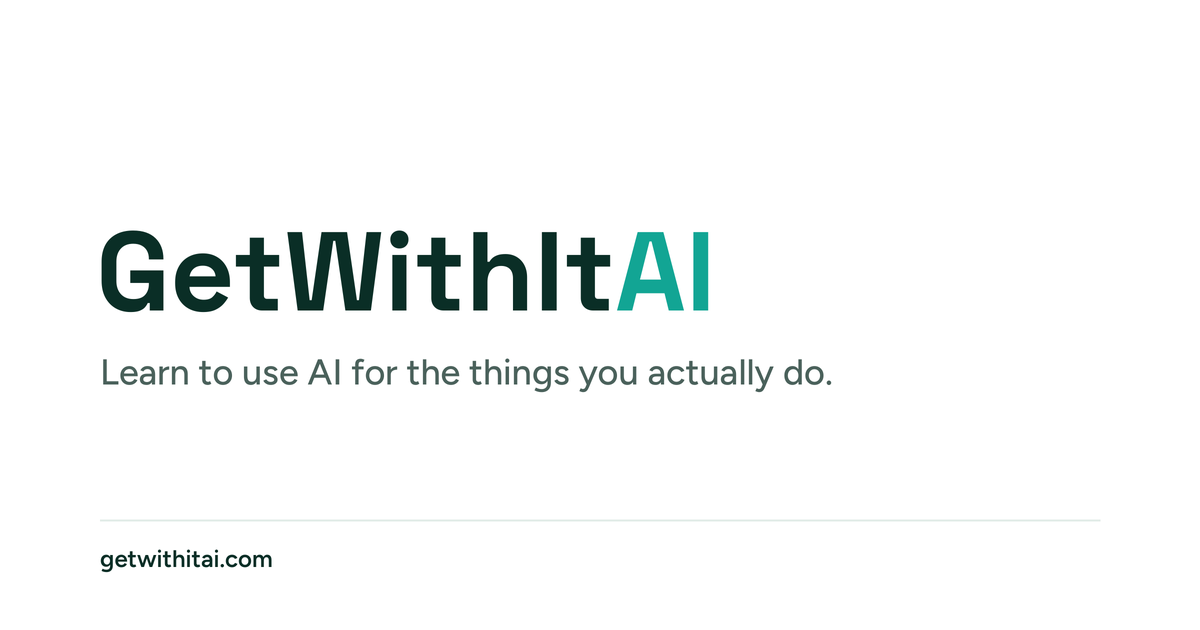
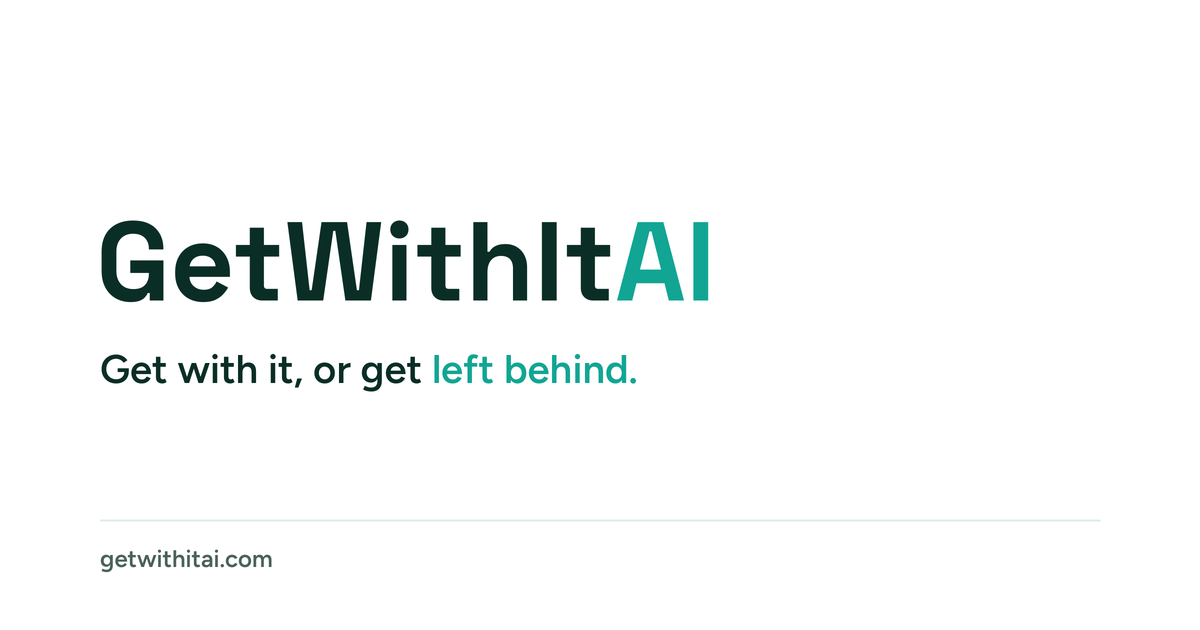
Take out the stats; add the motto 'Get with it, or get left behind.'
The 'What it's worth' stats section is replaced by a motto band on the
home page, and the share image carries the motto.

diff --git a/index.html b/index.html
@@ -7,10 +7,10 @@
   <meta name="description" content="Live, hands-on AI training for beginners and daily users. AI Hero Academy: 18 modules in one day, then an 18-day guided challenge on your own work. Start with a free 28-minute course." />
   <meta name="theme-color" content="#FFFFFF" />
   <link rel="canonical" href="https://getwithitai.com/" />
-  <link rel="icon" href="favicon.ico?v=20261120e" sizes="any" />
-  <link rel="icon" href="assets/logo.svg?v=20261120e" type="image/svg+xml" />
-  <link rel="apple-touch-icon" href="assets/apple-touch-icon.png?v=20261120e" />
-  <link rel="manifest" href="site.webmanifest?v=20261120e" />
+  <link rel="icon" href="favicon.ico?v=20261120f" sizes="any" />
+  <link rel="icon" href="assets/logo.svg?v=20261120f" type="image/svg+xml" />
+  <link rel="apple-touch-icon" href="assets/apple-touch-icon.png?v=20261120f" />
+  <link rel="manifest" href="site.webmanifest?v=20261120f" />
   <meta property="og:type" content="website" />
   <meta property="og:site_name" content="GetWithItAI" />
   <meta property="og:url" content="https://getwithitai.com/" />
@@ -24,7 +24,7 @@
   <link rel="preconnect" href="https://fonts.googleapis.com">
   <link rel="preconnect" href="https://fonts.gstatic.com" crossorigin>
   <link href="https://fonts.googleapis.com/css2?family=Space+Grotesk:wght@500;700&family=Figtree:wght@400;600;700&display=swap" rel="stylesheet">
-  <link rel="stylesheet" href="assets/styles.css?v=20261120e" />
+  <link rel="stylesheet" href="assets/styles.css?v=20261120f" />
 </head>
 <body>
 
@@ -177,21 +177,13 @@
   </div>
 </section>
 
-<section class="deep">
+<section class="deep motto">
   <div class="wrap">
-    <span class="eyebrow">What it's worth</span>
-    <h2>A couple of hours a week adds up fast.</h2>
-    <div class="grid grid-2 mt-2">
-      <div>
-        <div class="stat-num">2.2 hrs</div>
-        <p class="muted">a week is the average time saved by workers who use AI, from a survey by the Federal Reserve Bank of St. Louis. About a third of daily users said it saved them four hours or more. That's over 100 hours a year.</p>
-      </div>
-      <div>
-        <div class="stat-num">35.9%</div>
-        <p class="muted">of Canadian workers used generative AI on the job in the past year, according to Statistics Canada. Using it is common now. Using it well is what sets people apart.</p>
-      </div>
+    <span class="eyebrow">Our motto</span>
+    <p class="motto-line">Get with it, or get <span>left behind.</span></p>
+    <div class="cta-row mt-2">
+      <a class="btn btn-line inv" href="register.html">Book your seat</a>
     </div>
-    <p class="source">Sources: <a href="https://www.stlouisfed.org/on-the-economy/2025/feb/impact-generative-ai-work-productivity" target="_blank" rel="noopener">St. Louis Fed, February 2025</a> and <a href="https://www150.statcan.gc.ca/n1/daily-quotidien/260730/dq260730b-eng.htm" target="_blank" rel="noopener">Statistics Canada, The Daily, July 30, 2026</a>.</p>
   </div>
 </section>
 
@@ -350,6 +342,6 @@
   ]
 }
 </script>
-<script src="assets/site.js?v=20261120e"></script>
+<script src="assets/site.js?v=20261120f"></script>
 </body>
 </html>

diff --git a/course.html b/course.html
@@ -7,10 +7,10 @@
   <meta name="description" content="AI Hero Academy has 18 modules on using AI in your everyday life and work. Take it in one live day or self-paced, then follow it with the 18-day challenge." />
   <meta name="theme-color" content="#FFFFFF" />
   <link rel="canonical" href="https://getwithitai.com/course.html" />
-  <link rel="icon" href="favicon.ico?v=20261120e" sizes="any" />
-  <link rel="icon" href="assets/logo.svg?v=20261120e" type="image/svg+xml" />
-  <link rel="apple-touch-icon" href="assets/apple-touch-icon.png?v=20261120e" />
-  <link rel="manifest" href="site.webmanifest?v=20261120e" />
+  <link rel="icon" href="favicon.ico?v=20261120f" sizes="any" />
+  <link rel="icon" href="assets/logo.svg?v=20261120f" type="image/svg+xml" />
+  <link rel="apple-touch-icon" href="assets/apple-touch-icon.png?v=20261120f" />
+  <link rel="manifest" href="site.webmanifest?v=20261120f" />
   <meta property="og:type" content="website" />
   <meta property="og:site_name" content="GetWithItAI" />
   <meta property="og:url" content="https://getwithitai.com/course.html" />
@@ -24,7 +24,7 @@
   <link rel="preconnect" href="https://fonts.googleapis.com">
   <link rel="preconnect" href="https://fonts.gstatic.com" crossorigin>
   <link href="https://fonts.googleapis.com/css2?family=Space+Grotesk:wght@500;700&family=Figtree:wght@400;600;700&display=swap" rel="stylesheet">
-  <link rel="stylesheet" href="assets/styles.css?v=20261120e" />
+  <link rel="stylesheet" href="assets/styles.css?v=20261120f" />
 </head>
 <body>
 
@@ -345,6 +345,6 @@
   </div>
 </footer>
 
-<script src="assets/site.js?v=20261120e"></script>
+<script src="assets/site.js?v=20261120f"></script>
 </body>
 </html>

diff --git a/learn.html b/learn.html
@@ -7,10 +7,10 @@
   <meta name="description" content="A free 28-minute starter course on using AI at work and at home. Seven short lessons, each with a practice prompt you try in a real AI app." />
   <meta name="theme-color" content="#FFFFFF" />
   <link rel="canonical" href="https://getwithitai.com/learn.html" />
-  <link rel="icon" href="favicon.ico?v=20261120e" sizes="any" />
-  <link rel="icon" href="assets/logo.svg?v=20261120e" type="image/svg+xml" />
-  <link rel="apple-touch-icon" href="assets/apple-touch-icon.png?v=20261120e" />
-  <link rel="manifest" href="site.webmanifest?v=20261120e" />
+  <link rel="icon" href="favicon.ico?v=20261120f" sizes="any" />
+  <link rel="icon" href="assets/logo.svg?v=20261120f" type="image/svg+xml" />
+  <link rel="apple-touch-icon" href="assets/apple-touch-icon.png?v=20261120f" />
+  <link rel="manifest" href="site.webmanifest?v=20261120f" />
   <meta property="og:type" content="website" />
   <meta property="og:site_name" content="GetWithItAI" />
   <meta property="og:url" content="https://getwithitai.com/learn.html" />
@@ -24,7 +24,7 @@
   <link rel="preconnect" href="https://fonts.googleapis.com">
   <link rel="preconnect" href="https://fonts.gstatic.com" crossorigin>
   <link href="https://fonts.googleapis.com/css2?family=Space+Grotesk:wght@500;700&family=Figtree:wght@400;600;700&display=swap" rel="stylesheet">
-  <link rel="stylesheet" href="assets/styles.css?v=20261120e" />
+  <link rel="stylesheet" href="assets/styles.css?v=20261120f" />
 </head>
 <body>
 
@@ -359,6 +359,6 @@
   </div>
 </footer>
 
-<script src="assets/site.js?v=20261120e"></script>
+<script src="assets/site.js?v=20261120f"></script>
 </body>
 </html>

diff --git a/pricing.html b/pricing.html
@@ -7,10 +7,10 @@
   <meta name="description" content="A free 28-minute starter course, a $197 one-day bootcamp, a $250 self-paced course, and private sessions for teams of up to 15." />
   <meta name="theme-color" content="#FFFFFF" />
   <link rel="canonical" href="https://getwithitai.com/pricing.html" />
-  <link rel="icon" href="favicon.ico?v=20261120e" sizes="any" />
-  <link rel="icon" href="assets/logo.svg?v=20261120e" type="image/svg+xml" />
-  <link rel="apple-touch-icon" href="assets/apple-touch-icon.png?v=20261120e" />
-  <link rel="manifest" href="site.webmanifest?v=20261120e" />
+  <link rel="icon" href="favicon.ico?v=20261120f" sizes="any" />
+  <link rel="icon" href="assets/logo.svg?v=20261120f" type="image/svg+xml" />
+  <link rel="apple-touch-icon" href="assets/apple-touch-icon.png?v=20261120f" />
+  <link rel="manifest" href="site.webmanifest?v=20261120f" />
   <meta property="og:type" content="website" />
   <meta property="og:site_name" content="GetWithItAI" />
   <meta property="og:url" content="https://getwithitai.com/pricing.html" />
@@ -24,7 +24,7 @@
   <link rel="preconnect" href="https://fonts.googleapis.com">
   <link rel="preconnect" href="https://fonts.gstatic.com" crossorigin>
   <link href="https://fonts.googleapis.com/css2?family=Space+Grotesk:wght@500;700&family=Figtree:wght@400;600;700&display=swap" rel="stylesheet">
-  <link rel="stylesheet" href="assets/styles.css?v=20261120e" />
+  <link rel="stylesheet" href="assets/styles.css?v=20261120f" />
 </head>
 <body>
 
@@ -165,6 +165,6 @@
   </div>
 </footer>
 
-<script src="assets/site.js?v=20261120e"></script>
+<script src="assets/site.js?v=20261120f"></script>
 </body>
 </html>

diff --git a/register.html b/register.html
@@ -7,10 +7,10 @@
   <meta name="description" content="Save your seat in AI Hero Academy. Register here and we'll email you the dates and payment details within 24 hours." />
   <meta name="theme-color" content="#FFFFFF" />
   <link rel="canonical" href="https://getwithitai.com/register.html" />
-  <link rel="icon" href="favicon.ico?v=20261120e" sizes="any" />
-  <link rel="icon" href="assets/logo.svg?v=20261120e" type="image/svg+xml" />
-  <link rel="apple-touch-icon" href="assets/apple-touch-icon.png?v=20261120e" />
-  <link rel="manifest" href="site.webmanifest?v=20261120e" />
+  <link rel="icon" href="favicon.ico?v=20261120f" sizes="any" />
+  <link rel="icon" href="assets/logo.svg?v=20261120f" type="image/svg+xml" />
+  <link rel="apple-touch-icon" href="assets/apple-touch-icon.png?v=20261120f" />
+  <link rel="manifest" href="site.webmanifest?v=20261120f" />
   <meta property="og:type" content="website" />
   <meta property="og:site_name" content="GetWithItAI" />
   <meta property="og:url" content="https://getwithitai.com/register.html" />
@@ -24,7 +24,7 @@
   <link rel="preconnect" href="https://fonts.googleapis.com">
   <link rel="preconnect" href="https://fonts.gstatic.com" crossorigin>
   <link href="https://fonts.googleapis.com/css2?family=Space+Grotesk:wght@500;700&family=Figtree:wght@400;600;700&display=swap" rel="stylesheet">
-  <link rel="stylesheet" href="assets/styles.css?v=20261120e" />
+  <link rel="stylesheet" href="assets/styles.css?v=20261120f" />
 </head>
 <body>
 
@@ -141,6 +141,6 @@
   </div>
 </footer>
 
-<script src="assets/site.js?v=20261120e"></script>
+<script src="assets/site.js?v=20261120f"></script>
 </body>
 </html>

diff --git a/404.html b/404.html
@@ -7,10 +7,10 @@
   <meta name="description" content="This page has moved or the link is broken." />
   <meta name="theme-color" content="#FFFFFF" />
   <meta name="robots" content="noindex" />
-  <link rel="icon" href="/favicon.ico?v=20261120e" sizes="any" />
-  <link rel="icon" href="/assets/logo.svg?v=20261120e" type="image/svg+xml" />
-  <link rel="apple-touch-icon" href="/assets/apple-touch-icon.png?v=20261120e" />
-  <link rel="manifest" href="/site.webmanifest?v=20261120e" />
+  <link rel="icon" href="/favicon.ico?v=20261120f" sizes="any" />
+  <link rel="icon" href="/assets/logo.svg?v=20261120f" type="image/svg+xml" />
+  <link rel="apple-touch-icon" href="/assets/apple-touch-icon.png?v=20261120f" />
+  <link rel="manifest" href="/site.webmanifest?v=20261120f" />
   <meta property="og:type" content="website" />
   <meta property="og:site_name" content="GetWithItAI" />
   <meta property="og:url" content="https://getwithitai.com/404.html" />
@@ -24,7 +24,7 @@
   <link rel="preconnect" href="https://fonts.googleapis.com">
   <link rel="preconnect" href="https://fonts.gstatic.com" crossorigin>
   <link href="https://fonts.googleapis.com/css2?family=Space+Grotesk:wght@500;700&family=Figtree:wght@400;600;700&display=swap" rel="stylesheet">
-  <link rel="stylesheet" href="/assets/styles.css?v=20261120e" />
+  <link rel="stylesheet" href="/assets/styles.css?v=20261120f" />
 </head>
 <body>
 
@@ -88,6 +88,6 @@
   </div>
 </footer>
 
-<script src="/assets/site.js?v=20261120e"></script>
+<script src="/assets/site.js?v=20261120f"></script>
 </body>
 </html>

diff --git a/portal/index.html b/portal/index.html
@@ -6,12 +6,12 @@
   <title>GetWithItAI · Student portal</title>
   <meta name="description" content="AI Hero Academy student portal. Eighteen modules, an 18-day practice tracker, and a prompt library. Same course as getwithitai.com.">
   <meta name="theme-color" content="#FFFFFF">
-  <link rel="icon" href="favicon.ico?v=20261120e" sizes="any">
-  <link rel="icon" href="assets/logo.svg?v=20261120e" type="image/svg+xml">
+  <link rel="icon" href="favicon.ico?v=20261120f" sizes="any">
+  <link rel="icon" href="assets/logo.svg?v=20261120f" type="image/svg+xml">
   <link rel="preconnect" href="https://fonts.googleapis.com">
   <link rel="preconnect" href="https://fonts.gstatic.com" crossorigin>
   <link href="https://fonts.googleapis.com/css2?family=Space+Grotesk:wght@500;700&family=Figtree:wght@400;600;700&display=swap" rel="stylesheet">
-  <link rel="stylesheet" href="css/portal.css?v=20261120e">
+  <link rel="stylesheet" href="css/portal.css?v=20261120f">
 </head>
 <body>
   <div id="login" class="gate">
@@ -74,6 +74,6 @@
       <div id="view"></div>
     </div>
   </div>
-  <script src="js/portal.js?v=20261120e"></script>
+  <script src="js/portal.js?v=20261120f"></script>
 </body>
 </html>

diff --git a/assets/styles.css b/assets/styles.css
@@ -538,3 +538,11 @@ footer a:hover { color: var(--teal-dark); }
 
 .done-btn.is-done { background: var(--ink); border-color: var(--ink); color: #fff; }
 .open-apps a:hover { background: var(--ink); color: #fff; }
+
+/* Motto band (Sam, 2026-11-20) */
+.motto { text-align: center; padding: 7rem 0; }
+.motto .cta-row { justify-content: center; }
+.motto-line { font-family: "Space Grotesk", sans-serif; font-weight: 700; font-size: clamp(2rem, 5vw, 3.6rem); line-height: 1.08; letter-spacing: -0.03em; color: #fff; max-width: 20ch; margin: 1rem auto 0; }
+.motto-line span { color: #5FE0C8; }
+.motto .btn-line.inv { border-color: rgba(255,255,255,0.4); color: #fff; }
+.motto .btn-line.inv:hover { border-color: #fff; background: transparent; color: #fff; }

diff --git a/classroom/index.php b/classroom/index.php
@@ -17,7 +17,7 @@ unset($_SESSION['login_error']);
 <title>AI Hero Academy Classroom</title>
 <link rel="preconnect" href="https://fonts.googleapis.com">
 <link rel="stylesheet" href="https://fonts.googleapis.com/css2?family=Space+Grotesk:wght@500;700&family=Figtree:wght@400;600;700&display=swap">
-<link rel="stylesheet" href="player.css?v=20261120e">
+<link rel="stylesheet" href="player.css?v=20261120f">
 </head>
 <body>
 <?php if ($role === null): ?>
@@ -62,8 +62,8 @@ unset($_SESSION['login_error']);
     </div>
   </nav>
   <script id="cls" type="application/json"><?= json_encode(['role' => $role, 'csrf' => $csrf], JSON_HEX_TAG | JSON_HEX_AMP | JSON_HEX_APOS | JSON_HEX_QUOT) ?></script>
-  <script src="boot.js?v=20261120e"></script>
-  <script src="player.js?v=20261120e"></script>
+  <script src="boot.js?v=20261120f"></script>
+  <script src="player.js?v=20261120f"></script>
 <?php endif; ?>
 </body>
 </html>
